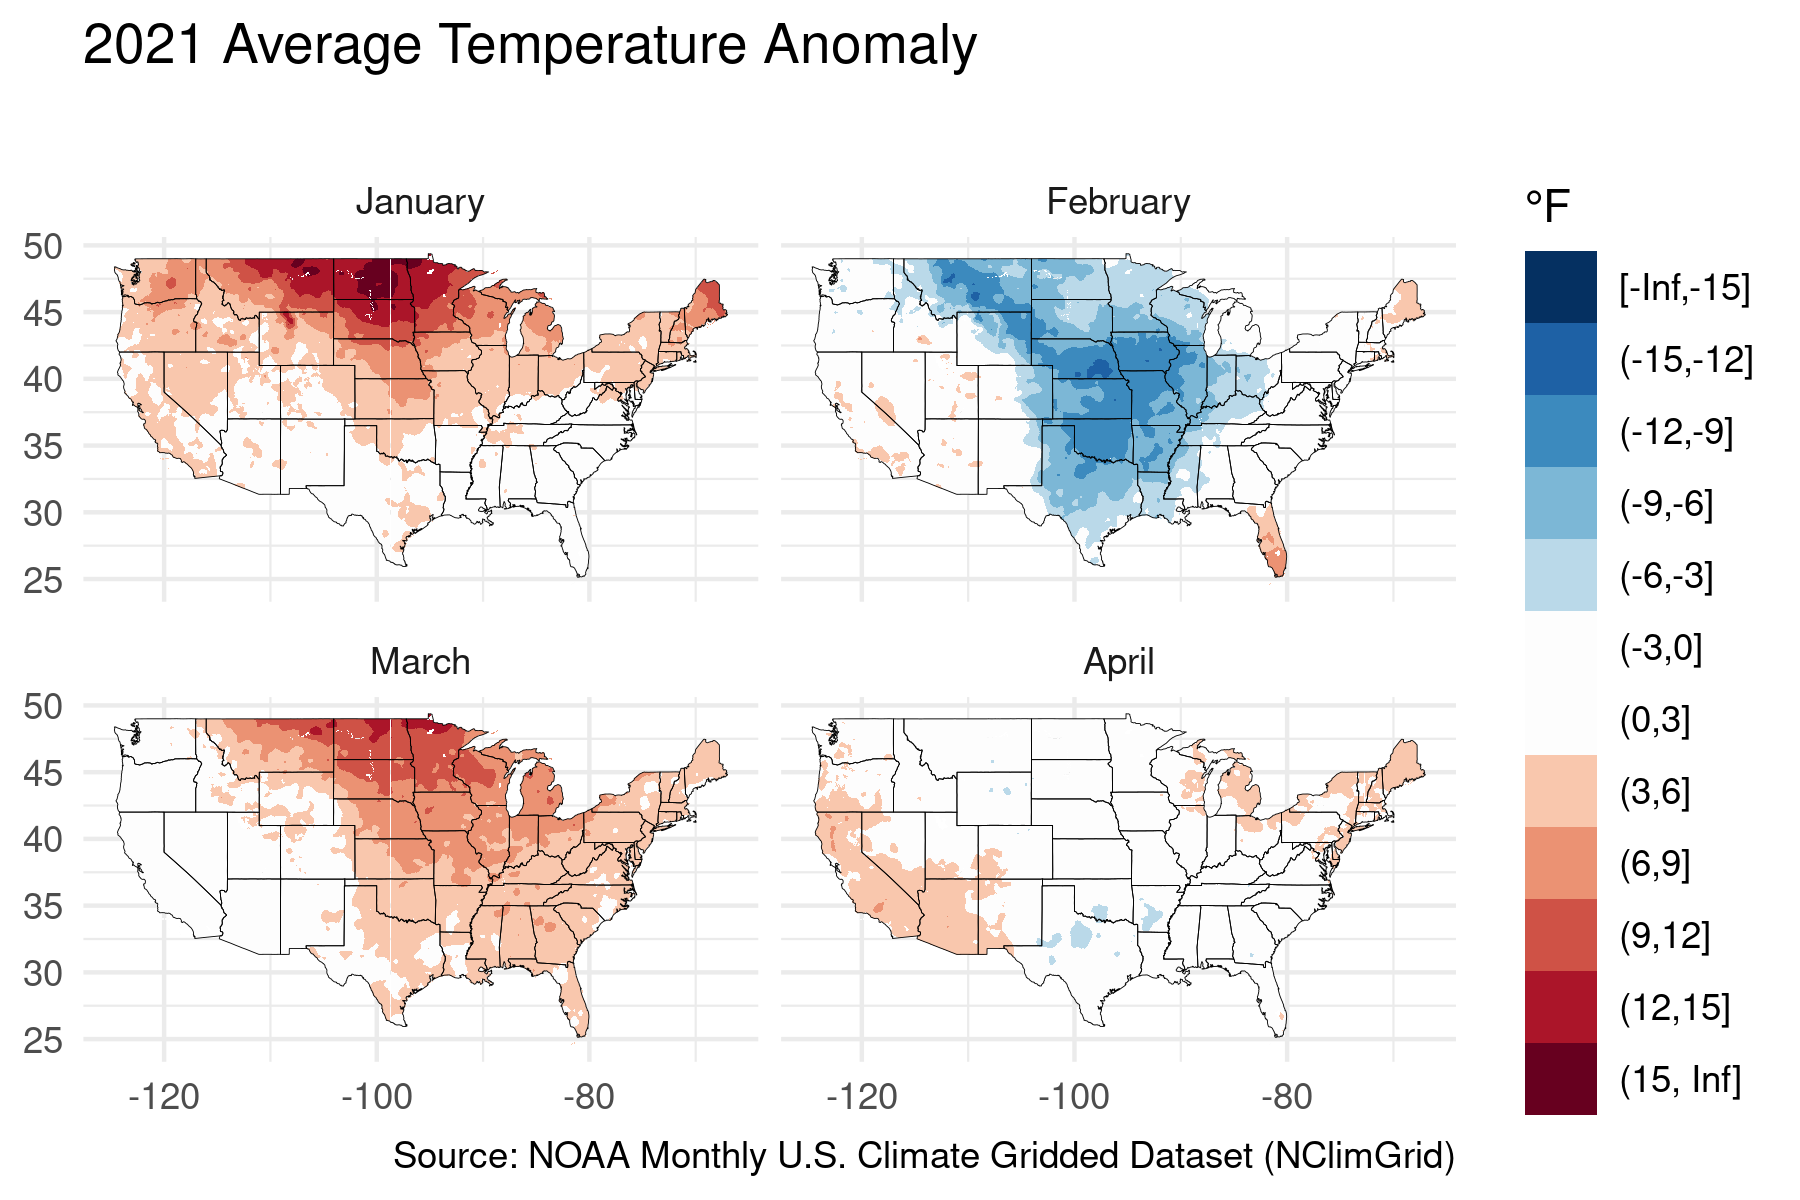
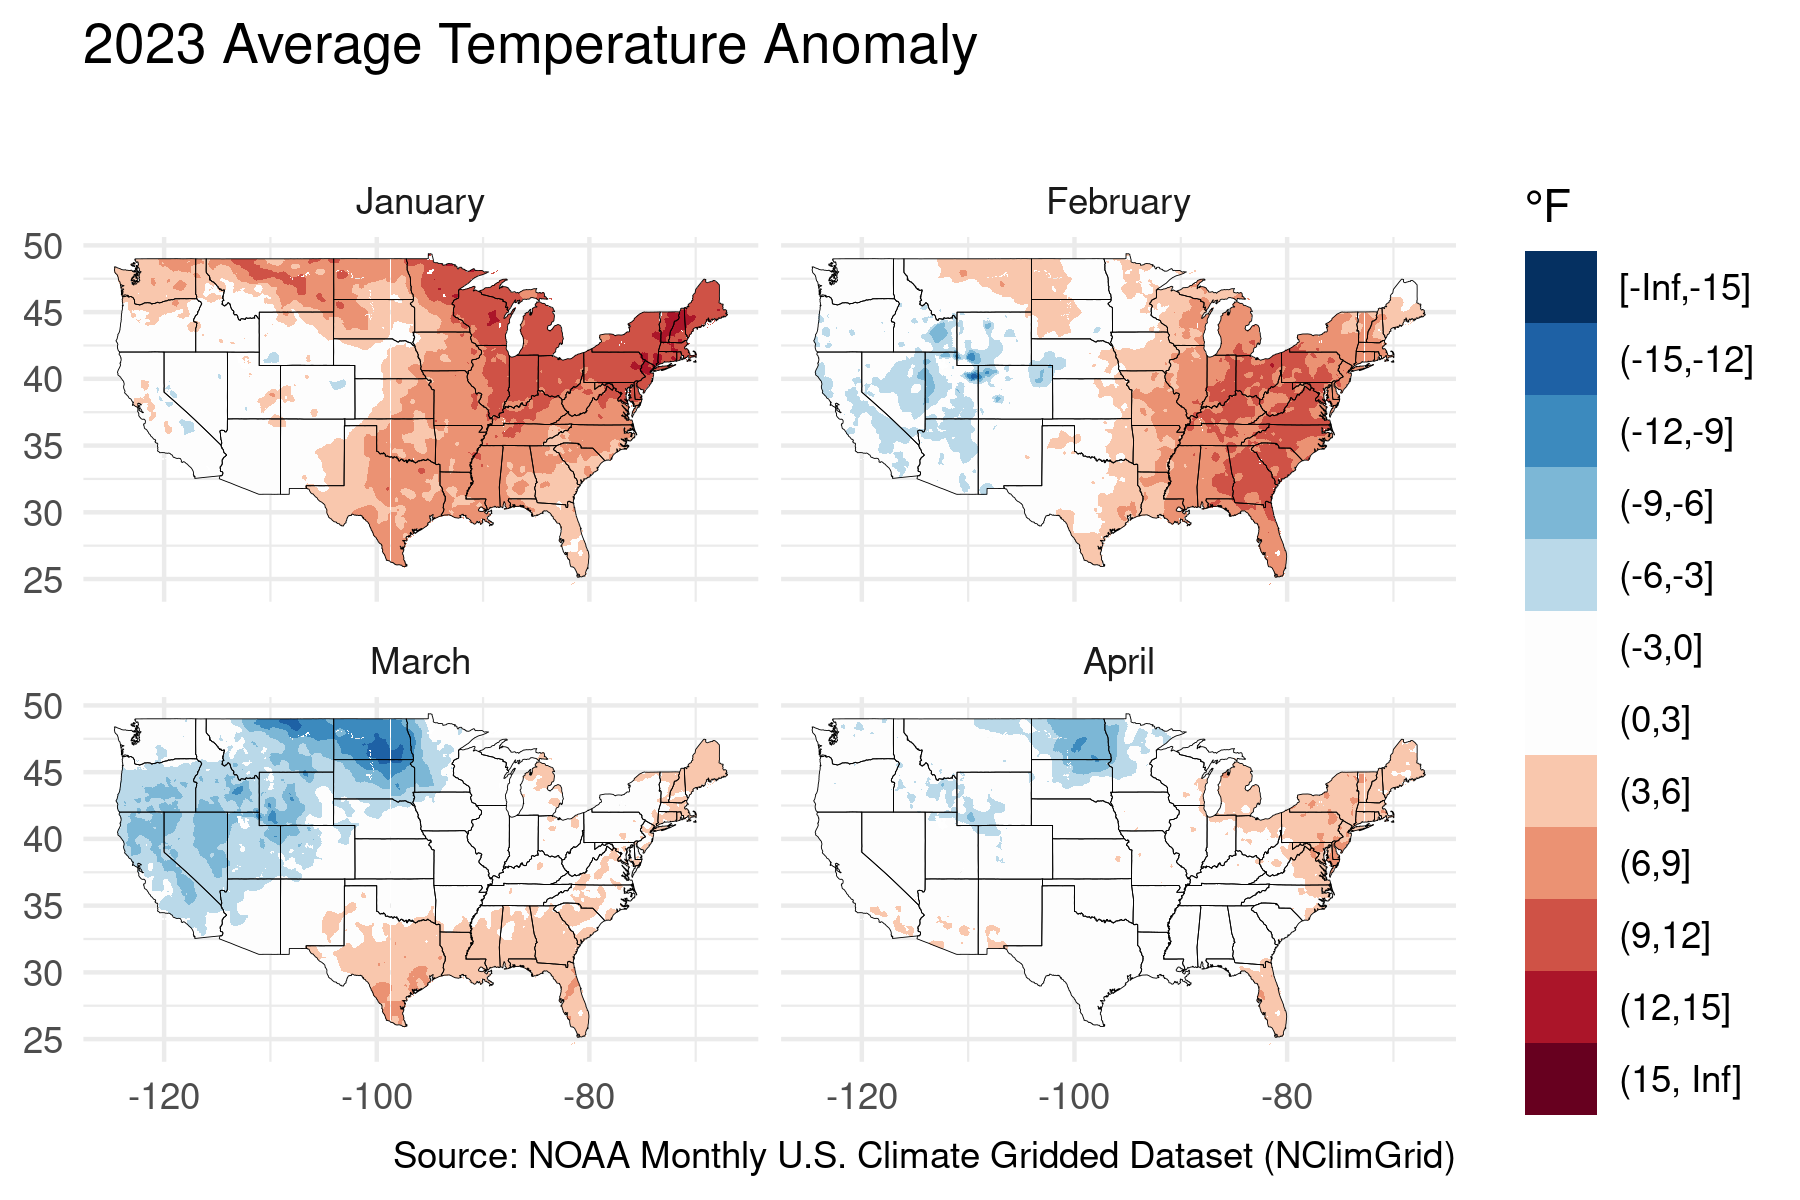
Update README.Rmd, added some missing @export

diff --git a/README.md b/README.md
@@ -1,7 +1,7 @@
 
 <!-- README.md is generated from README.Rmd. Please edit that file -->
 
-# noaaclimgrid <img src='man/figures/package_temp_icon.png' align="right" height="106" />
+# noaanclimgrid <img src='man/figures/package_temp_icon.png' align="right" height="106" />
 
 ## Overview
 
@@ -52,7 +52,7 @@ The `get_nclimgrid_*()` functions fetch this data and perform some basic
 parsing:
 
 ``` r
-nclim_monthly_data <- get_nclimgrid_monthly(year = 2021, 
+nclim_monthly_data <- get_nclimgrid_monthly(year = 2023, 
                                             measurement = "tave", 
                                             region = "us", 
                                             wide = FALSE, 
@@ -62,8 +62,8 @@ nclim_monthly_data %>% str
 #>  $ lat  : num [1:5637096] 24.6 24.6 24.6 24.6 24.6 ...
 #>  $ long : num [1:5637096] -81.8 -81.8 -81.8 -81.8 -81.8 ...
 #>  $ month: Factor w/ 12 levels "1","2","3","4",..: 1 2 3 4 5 6 7 8 9 10 ...
-#>  $ value: num [1:5637096] 69.5 75.4 76.2 79.1 81 ...
-#>  - attr(*, "year")= num 2021
+#>  $ value: num [1:5637096] 73 77.1 77.9 80.1 81.9 ...
+#>  - attr(*, "year")= num 2023
 #>  - attr(*, "measurement")= chr "tave"
 #>  - attr(*, "region")= chr "us"
 #>  - attr(*, "unit")= chr "Fahrenheit"
@@ -72,7 +72,7 @@ nclim_monthly_data %>% str
 ```
 
 The example above pulls average temperature (`tave`) for the Continental
-US (`us`) in 2021. Available datasets include also `tmin` (minimum
+US (`us`) in 2023. Available datasets include also `tmin` (minimum
 temperatures), `tmax` (maximum temperatures) and `prcp` (precipitation).
 More details about the nClimGrid dataset are available
 [here](https://www.ncei.noaa.gov/access/metadata/landing-page/bin/iso?id=gov.noaa.ncdc:C00332).
@@ -98,7 +98,7 @@ not included (i.e. your monthly measurements only cover a few months of
 the year).
 
 ``` r
-tave_anomaly <- compute_anomaly(nclimgrid_data_a =  nclim_monthly_data, 
+tave_anomaly <- compute_anomaly(nclimgrid_data_a = nclim_monthly_data, 
                                 nclimgrid_data_b = nclim_normals_data)
 
 tave_anomaly %>% str
@@ -106,8 +106,8 @@ tave_anomaly %>% str
 #>  $ lat  : num [1:5637096] 24.6 24.6 24.6 24.6 24.6 ...
 #>  $ long : num [1:5637096] -81.8 -81.8 -81.8 -81.8 -81.8 ...
 #>  $ month: Factor w/ 12 levels "1","2","3","4",..: 1 2 3 4 5 6 7 8 9 10 ...
-#>  $ value: num [1:5637096] 0.128 5.434 3.588 2.816 1.442 ...
-#>  - attr(*, "year")= num 2021
+#>  $ value: num [1:5637096] 3.62 7.11 5.28 3.79 2.29 ...
+#>  - attr(*, "year")= num 2023
 #>  - attr(*, "measurement")= chr "tave"
 #>  - attr(*, "region")= chr "us"
 #>  - attr(*, "unit")= chr "Fahrenheit"
@@ -157,7 +157,7 @@ require(maps)
 require(ggrepel)
 #> Loading required package: ggrepel
 
-nclim_monthly_prcp_data <- get_nclimgrid_monthly(year = 2021, 
+nclim_monthly_prcp_data <- get_nclimgrid_monthly(year = 2023, 
                                                  measurement = "prcp", 
                                                  region = "us")
 large_us_capitals <- maps::us.cities %>% 
